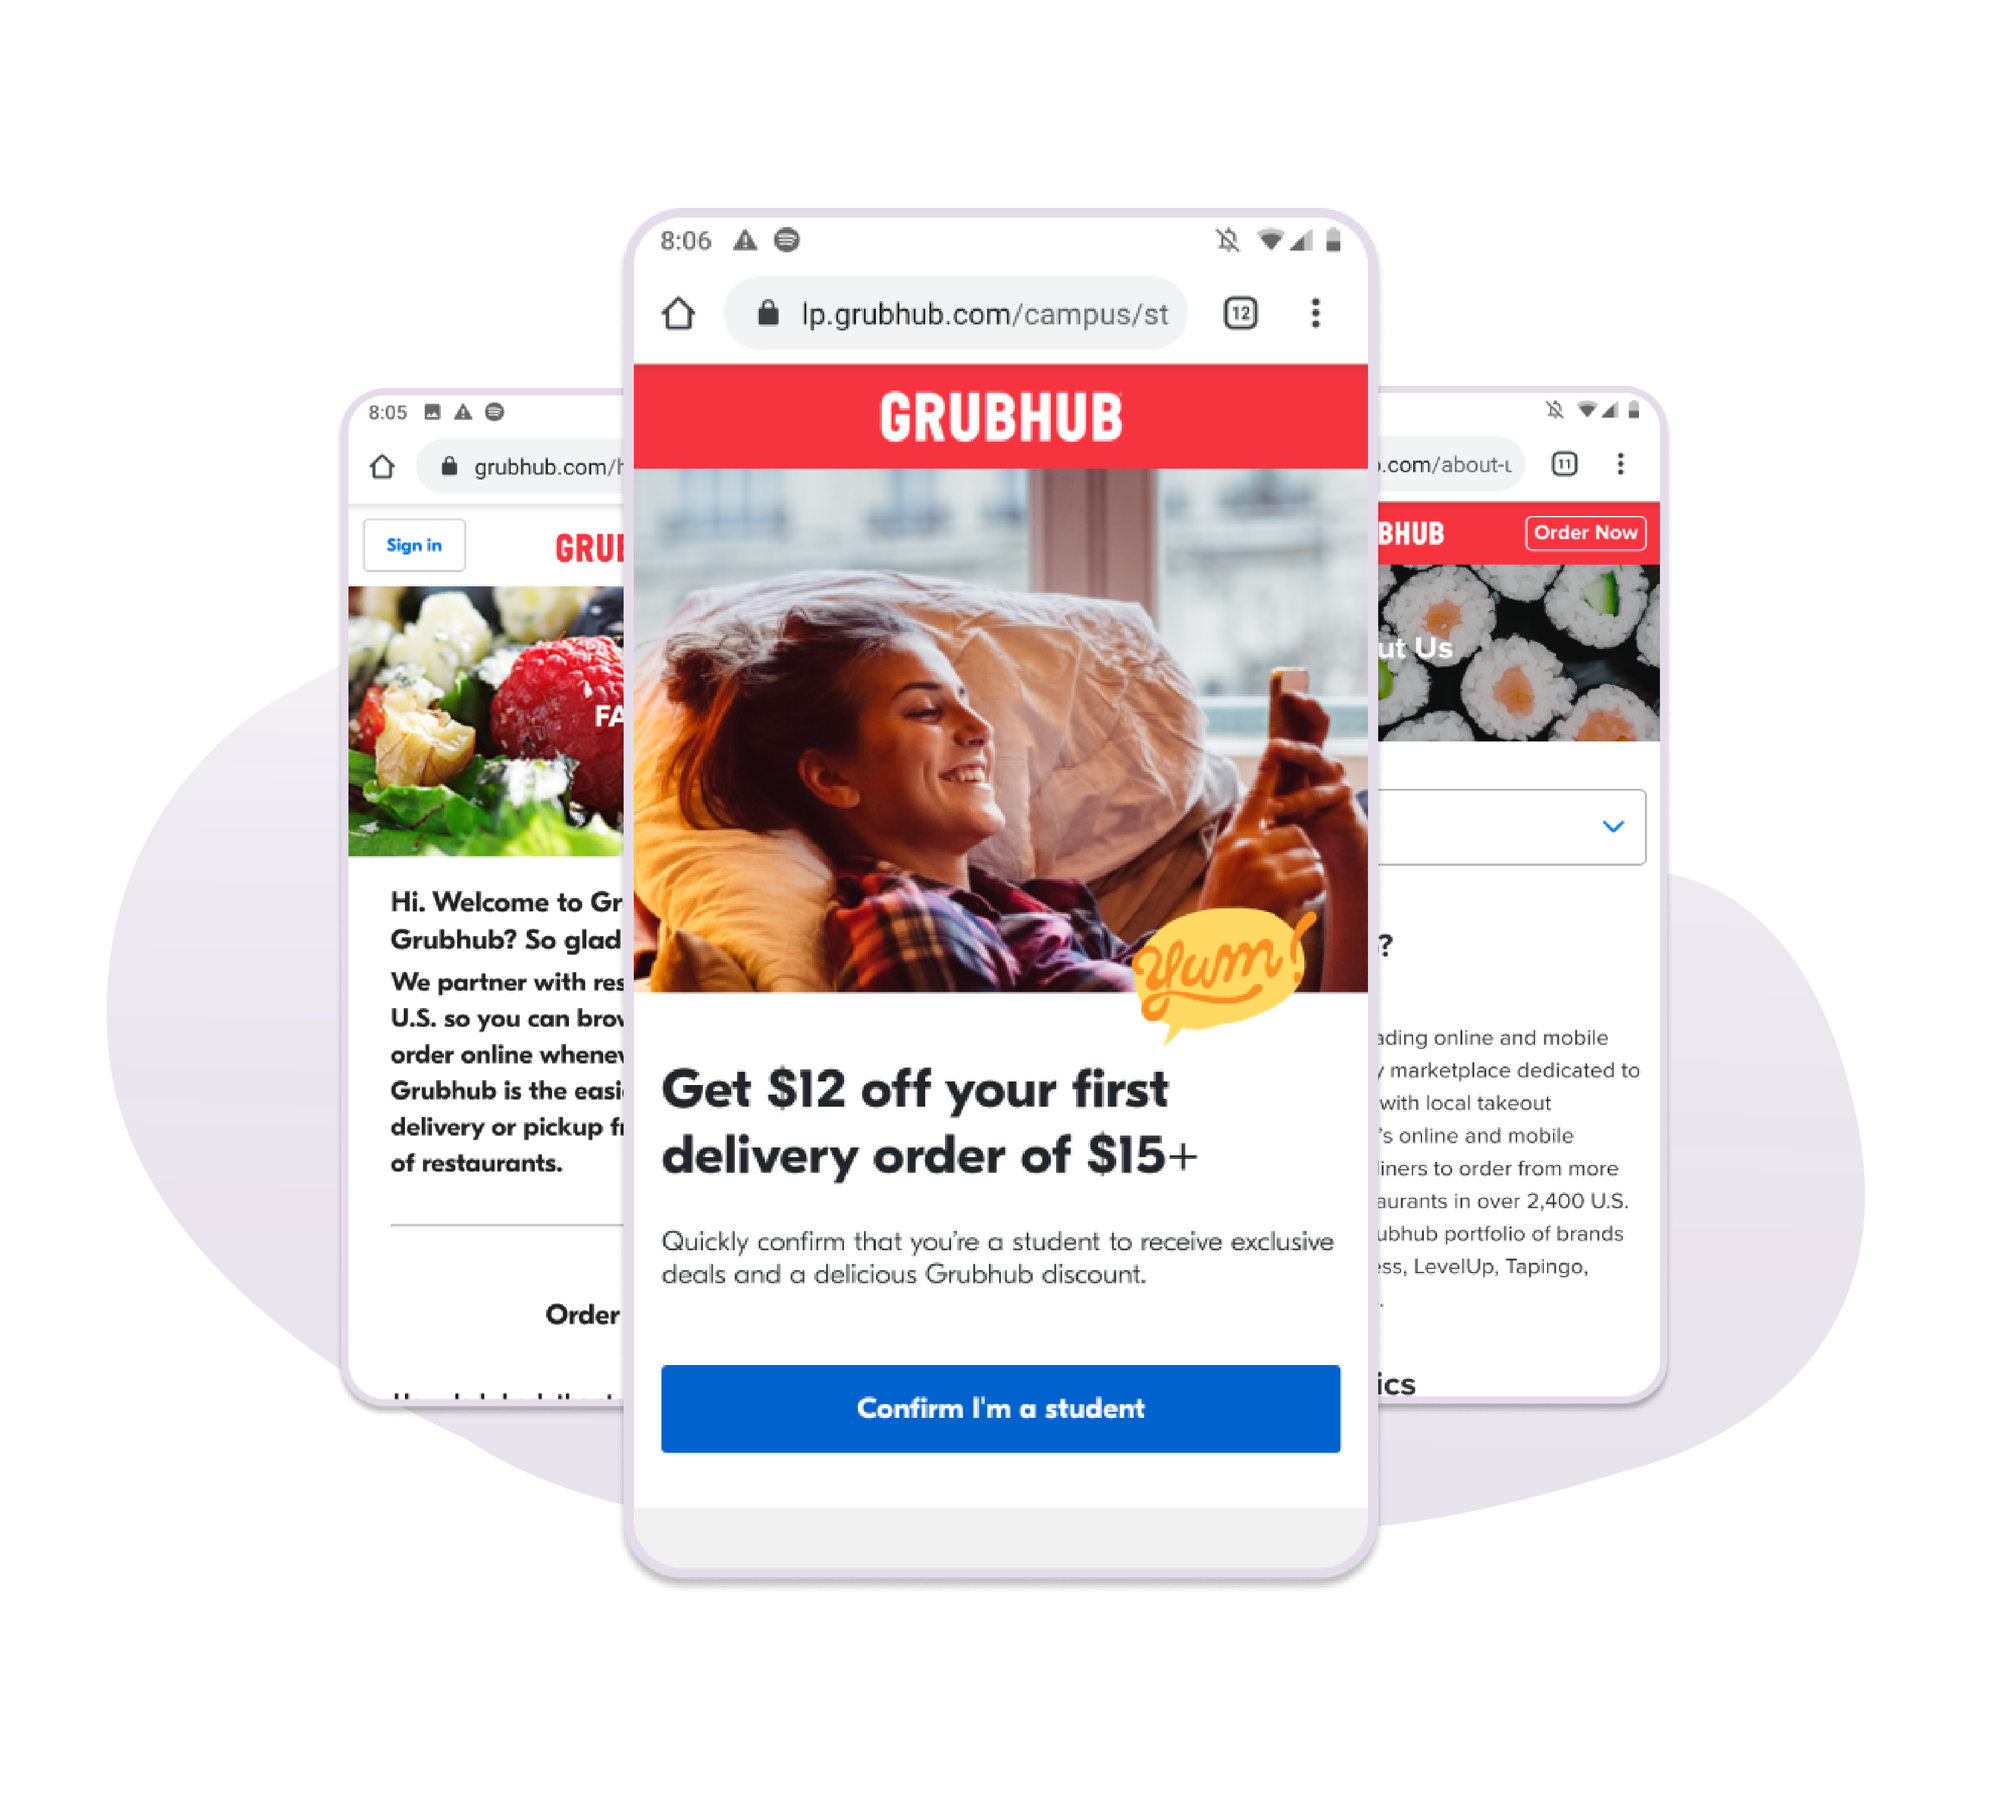
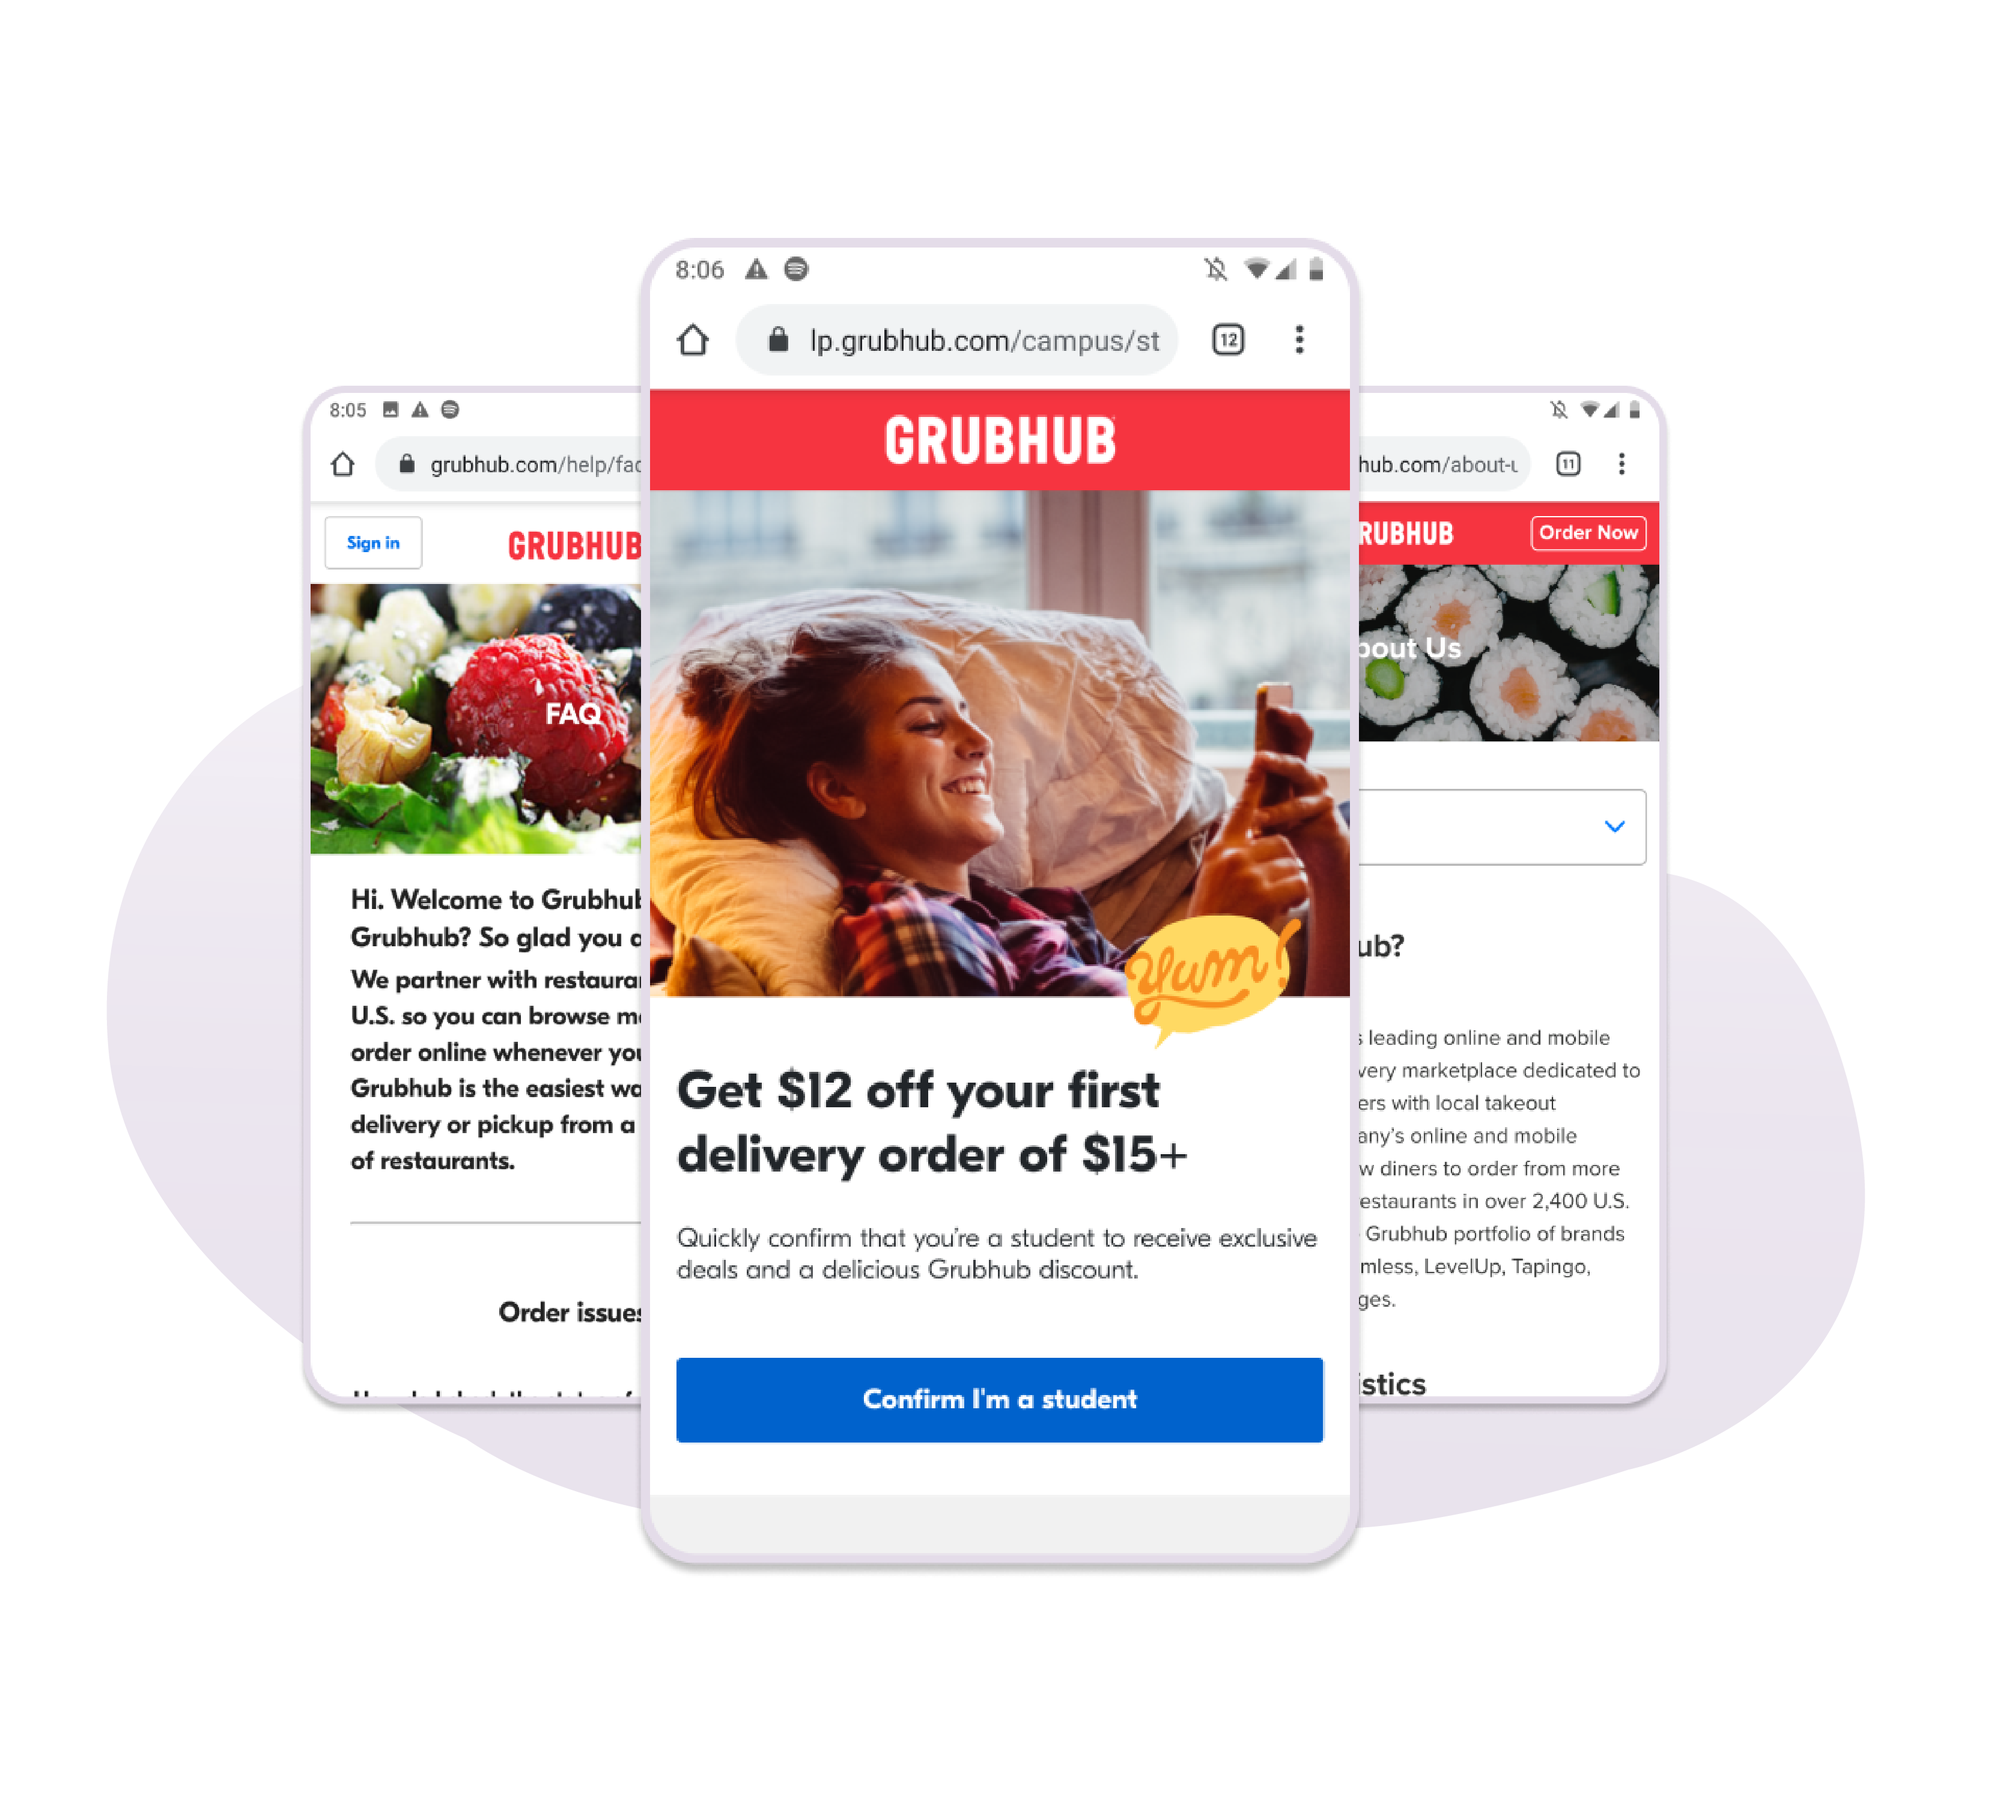
fixed images

Changed region(s): [[0.1248, 0.093, 0.811, 0.8987]]

diff --git a/src/modules/engineering-projects/grubhub/projects/dashi-gatsby.tsx b/src/modules/engineering-projects/grubhub/projects/dashi-gatsby.tsx
@@ -152,8 +152,8 @@ export function DashiGatsby({  }: IDashiGatsbyProps) {
               />
               <PhoneFrame
                 imageAlt="iphone frame"
-                imageSrc={require('assets/grubhub/projects/dashi-gatsby/grubhub-careers-m.png')}
-                caption="Grubhub Careers"
+                imageSrc={require('assets/grubhub/projects/dashi-gatsby/campus-m.png')}
+                caption="Grubhub For Students"
               />
             </TabletFrameRow>
           </TextSectionContainer>
